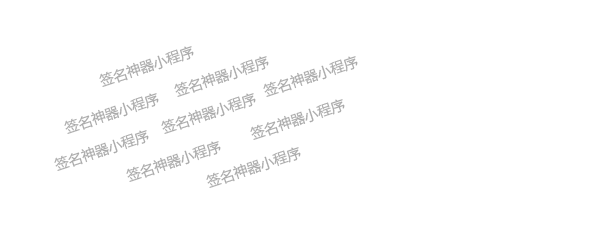
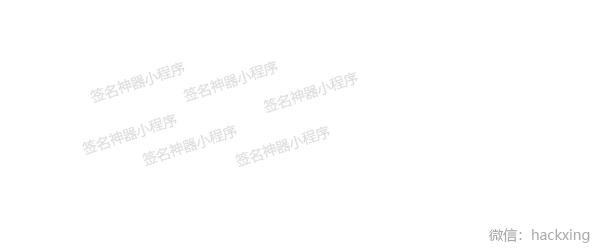
上线微信小程序：个签神器

diff --git a/src/MeowvBlog.Web/wwwroot/css/style.min.css b/src/MeowvBlog.Web/wwwroot/css/style.min.css
@@ -1,1 +1,1 @@
[2 lines of base64/hex data omitted]

diff --git a/src/MeowvBlog.Web/wwwroot/css/style.css b/src/MeowvBlog.Web/wwwroot/css/style.css
@@ -990,8 +990,12 @@ header label {
         width: 100%;
     }
 
+    .signature-box img {
+        height: 100px !important;
+    }
+
     .signature-img img {
-        height: 150px;
+        height: 100px;
     }
 
     .signature-action,.vip-action {
@@ -1105,7 +1109,7 @@ header label {
 }
 .signature-box img {
     border: none;
-    max-width: 100%;
+    height: 145px;
     margin-bottom:50px;
 }
 

diff --git a/src/MeowvBlog.Signature/SignatureExtension.cs b/src/MeowvBlog.Signature/SignatureExtension.cs
@@ -79,7 +79,7 @@ namespace MeowvBlog.Signature
 
             qrcodeImg.Mutate(x =>
             {
-                x.DrawImage(signImg, 0.9f);
+                x.DrawImage(signImg, 0.8f);
             });
 
             var signImgBase64 = qrcodeImg.ToBase64String(format);
